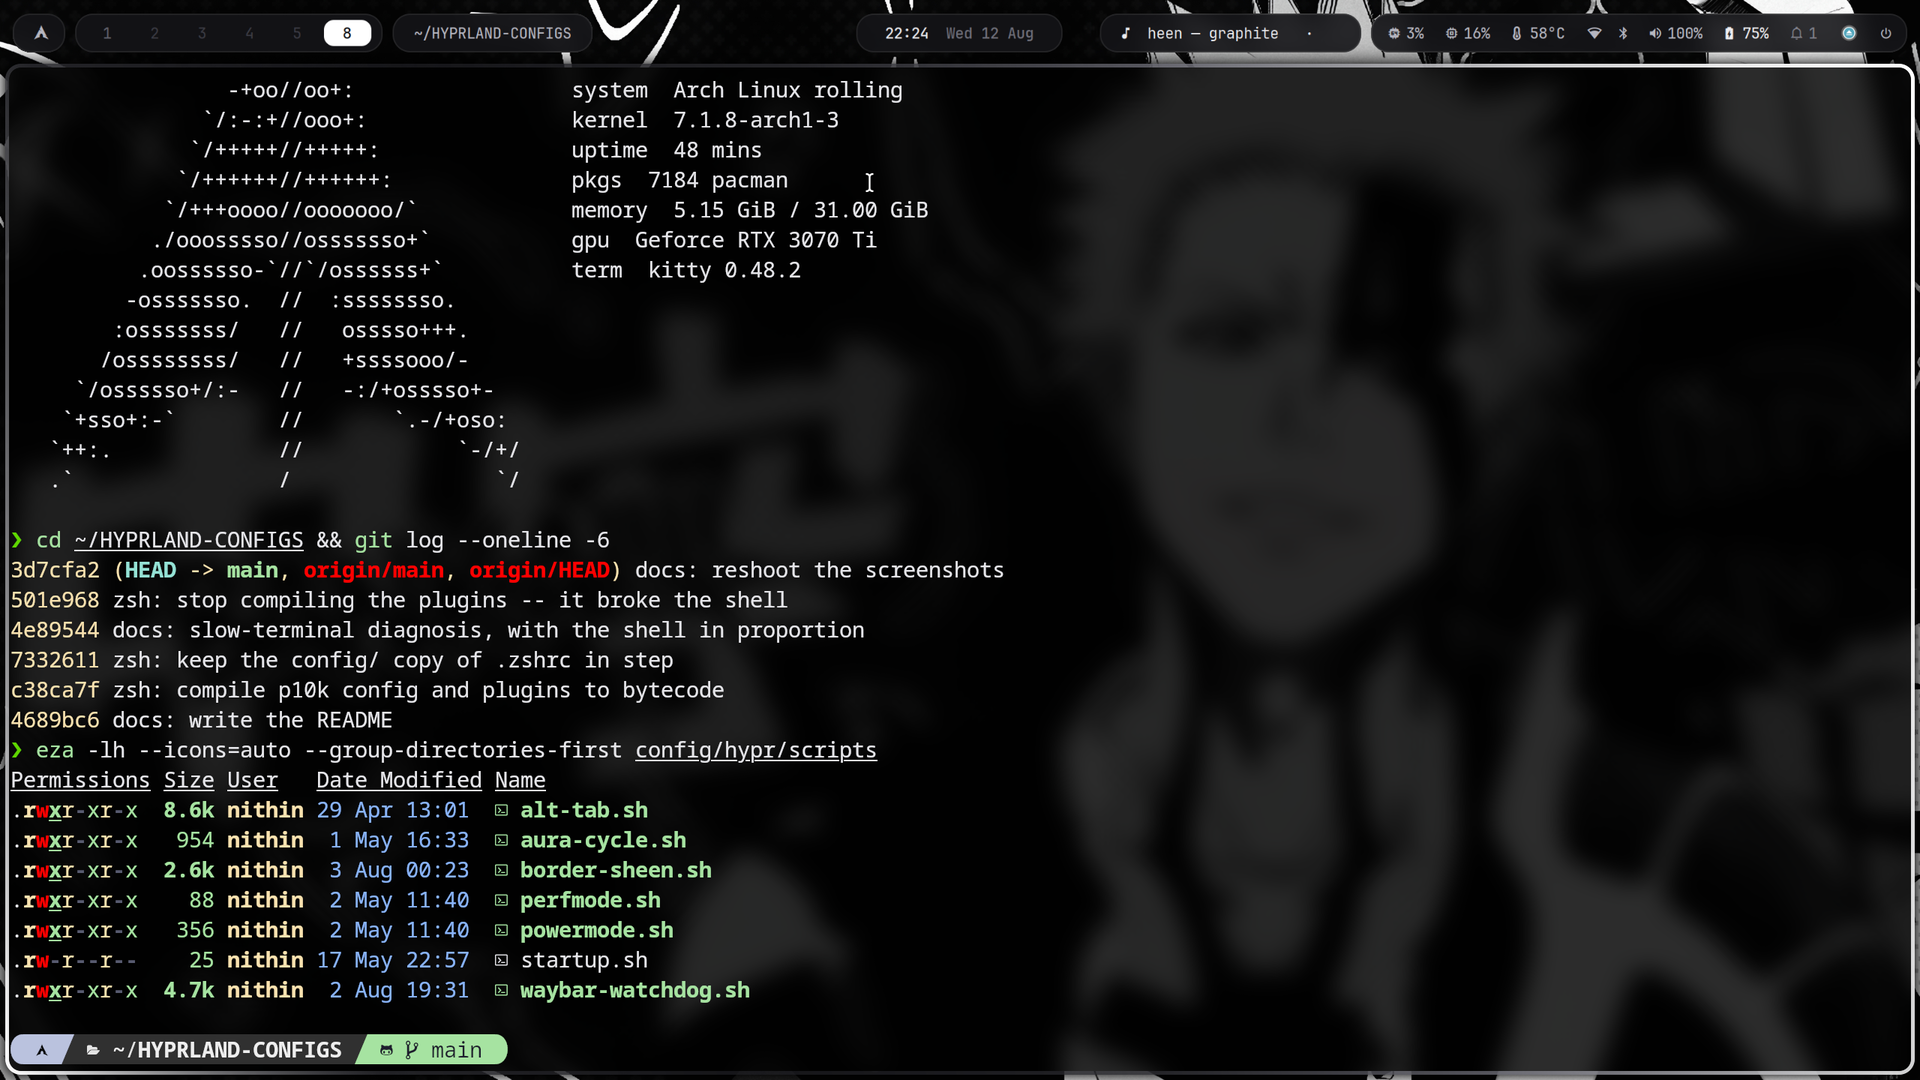
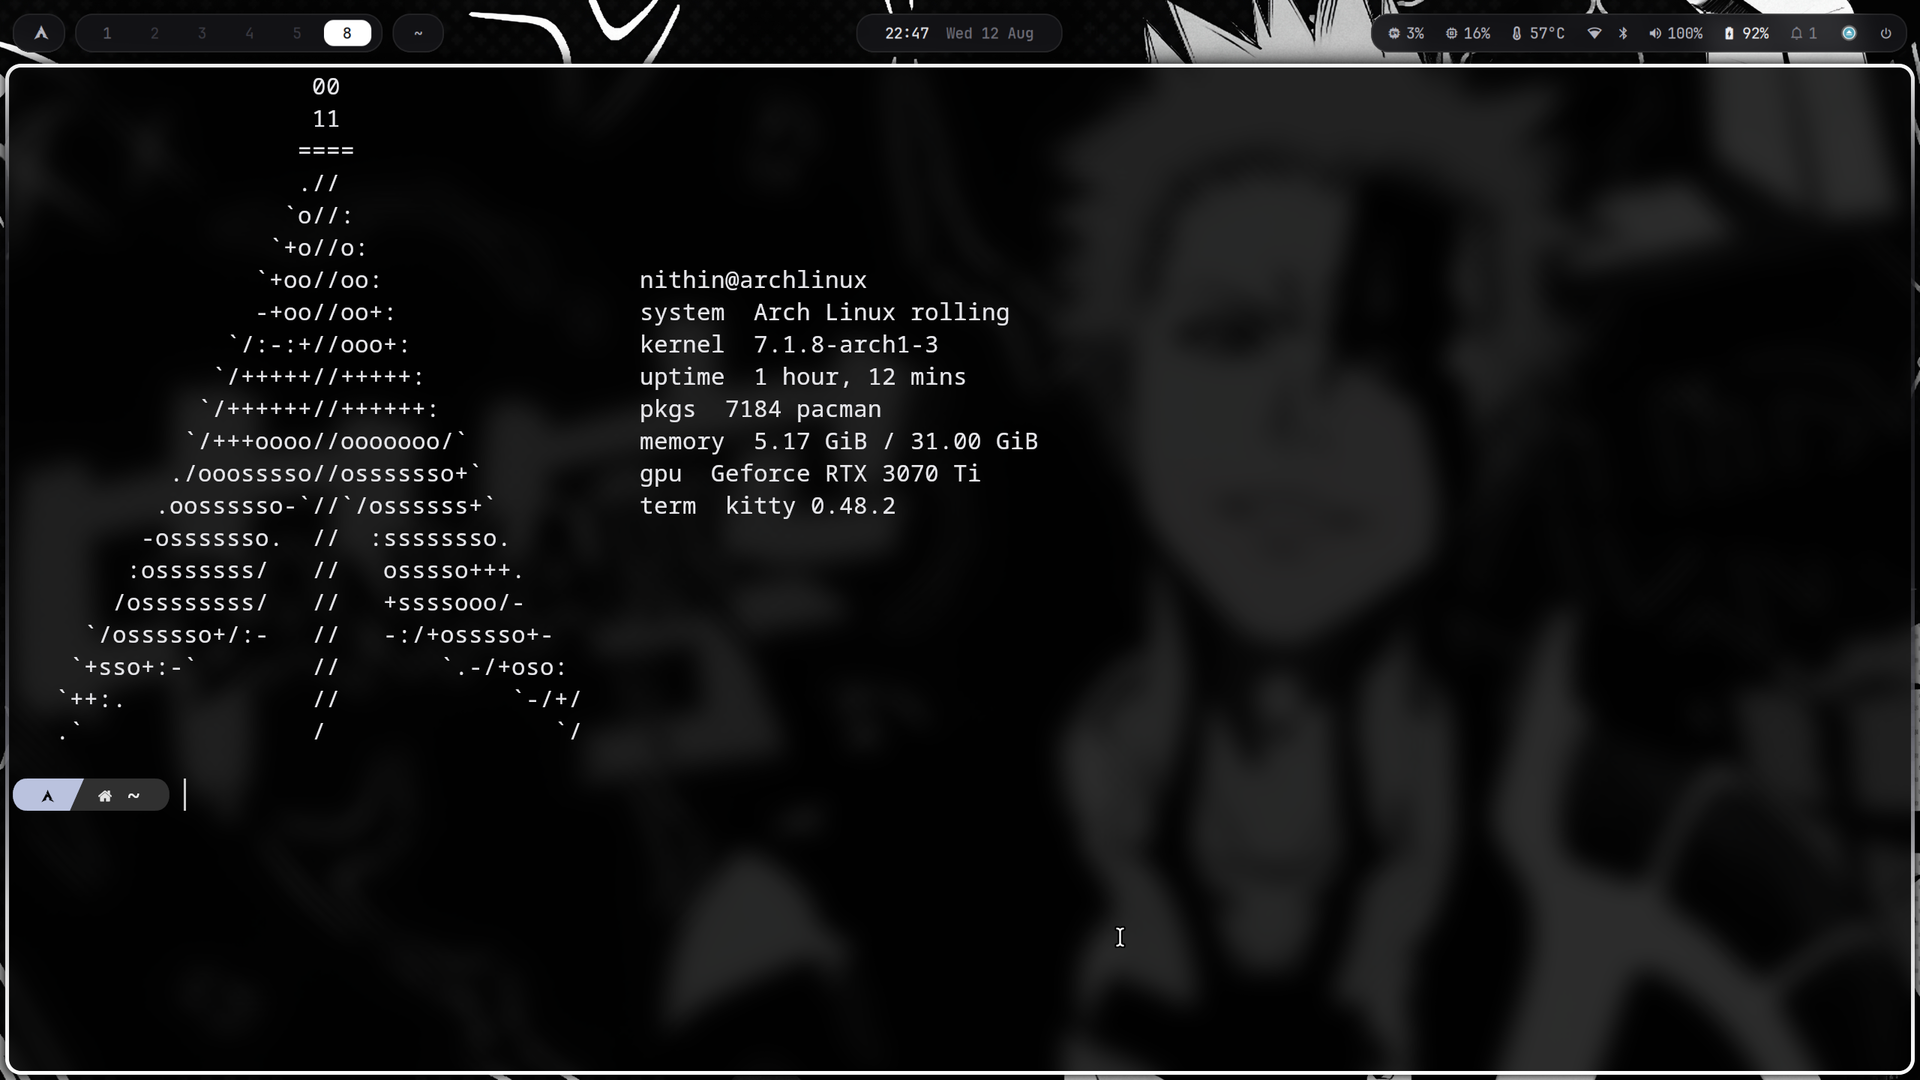
docs: one clean terminal shot, drop the tiled one
The terminal image had a git log and an eza listing typed after the fetch,
which scrolled the top of the BlackArch logo off the screen -- so the one
image meant to show the terminal was the one not showing all of it.

Now a fresh fullscreen kitty with nothing typed: the whole lockup from the
hilt down, the system block beside it, and the prompt. Nothing scrolls
because nothing ran.

Dropped desktop.png entirely. btop and cava are other people's programs and
were crowding out the thing being shown.

diff --git a/README.md b/README.md
@@ -79,17 +79,11 @@ from the current track's cover art by
 
 ### The terminal
 
-kitty at 82 % opacity, zsh with Powerlevel10k, a graphite fastfetch card on
-every new shell.
+kitty at 82 % opacity, zsh with Powerlevel10k, and a graphite fastfetch card
+on every new shell — the BlackArch lockup in white, system on the right,
+nothing else.
 
-<img src="assets/terminal.png" alt="kitty running fastfetch, a git log and eza with icons" width="100%">
-
-### The desktop
-
-Terminal, btop and cava tiled under the bar. Gaps are 2/4 and the border is
-3px — the focused window is the only bright edge on screen.
-
-<img src="assets/desktop.png" alt="Terminal, btop and cava tiled under the graphite Waybar" width="100%">
+<img src="assets/terminal.png" alt="A fullscreen kitty window showing the graphite fastfetch card" width="100%">
 
 ### The BlackArch toolbox
 
